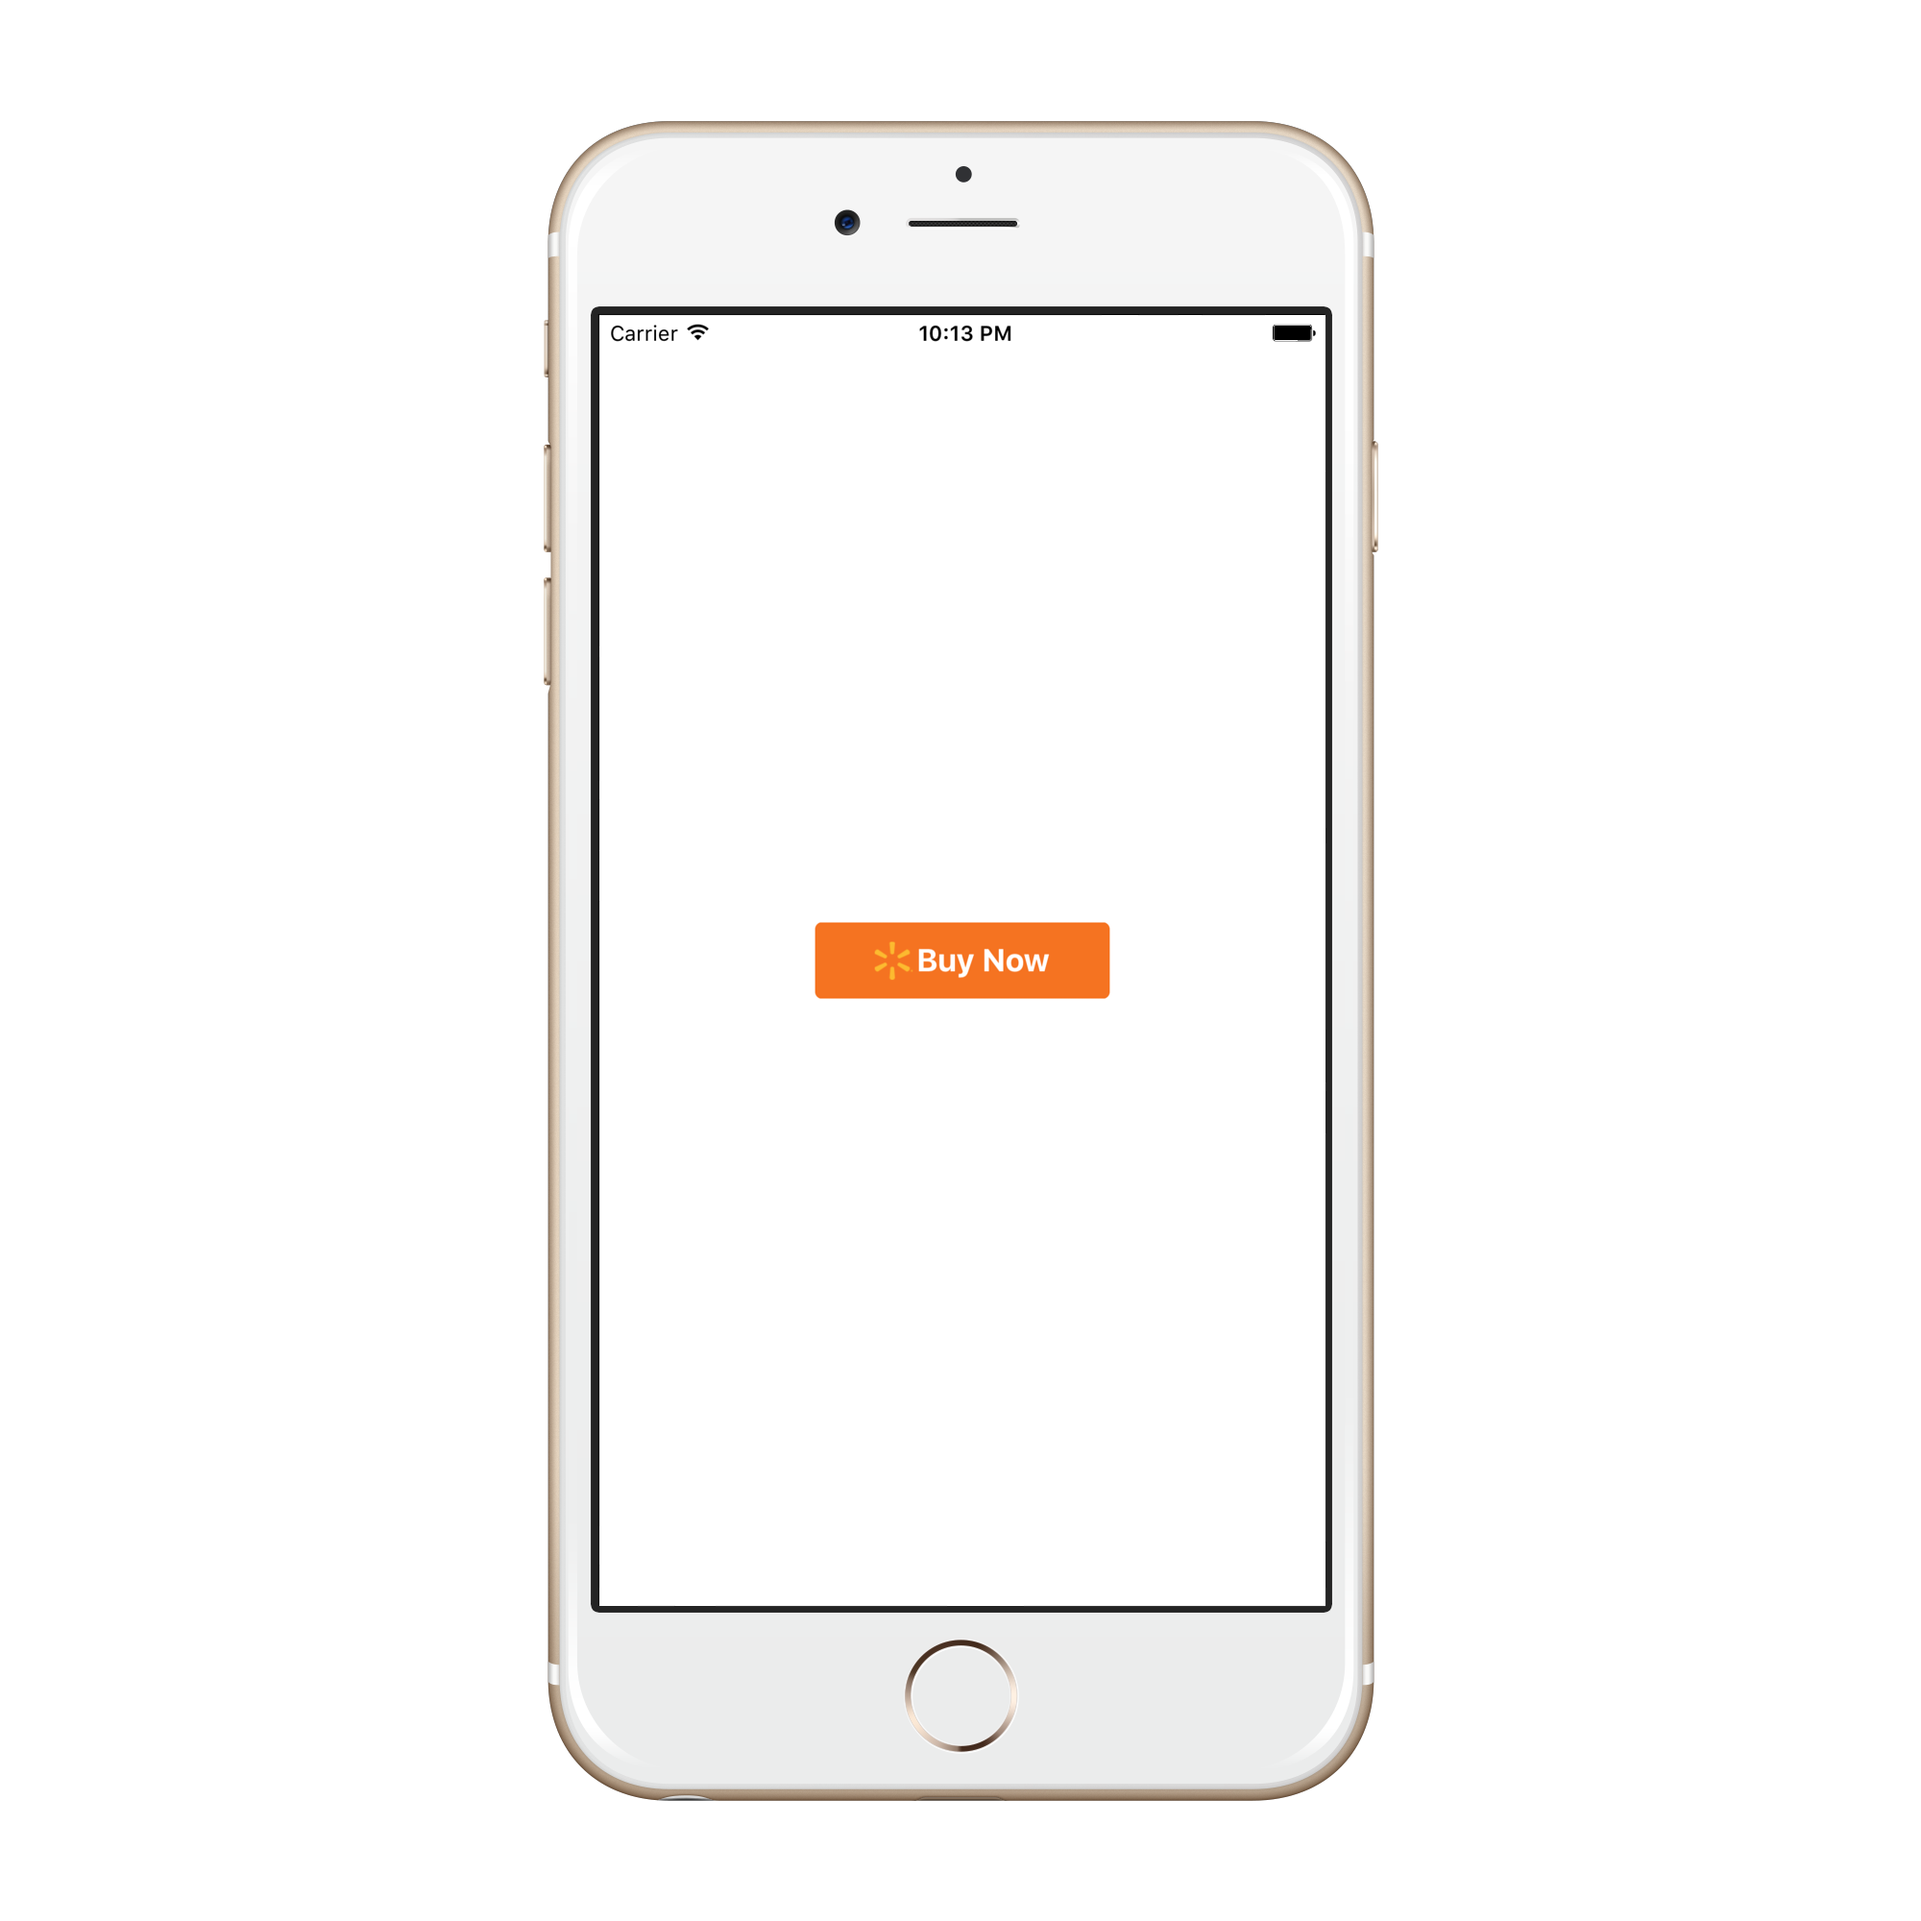
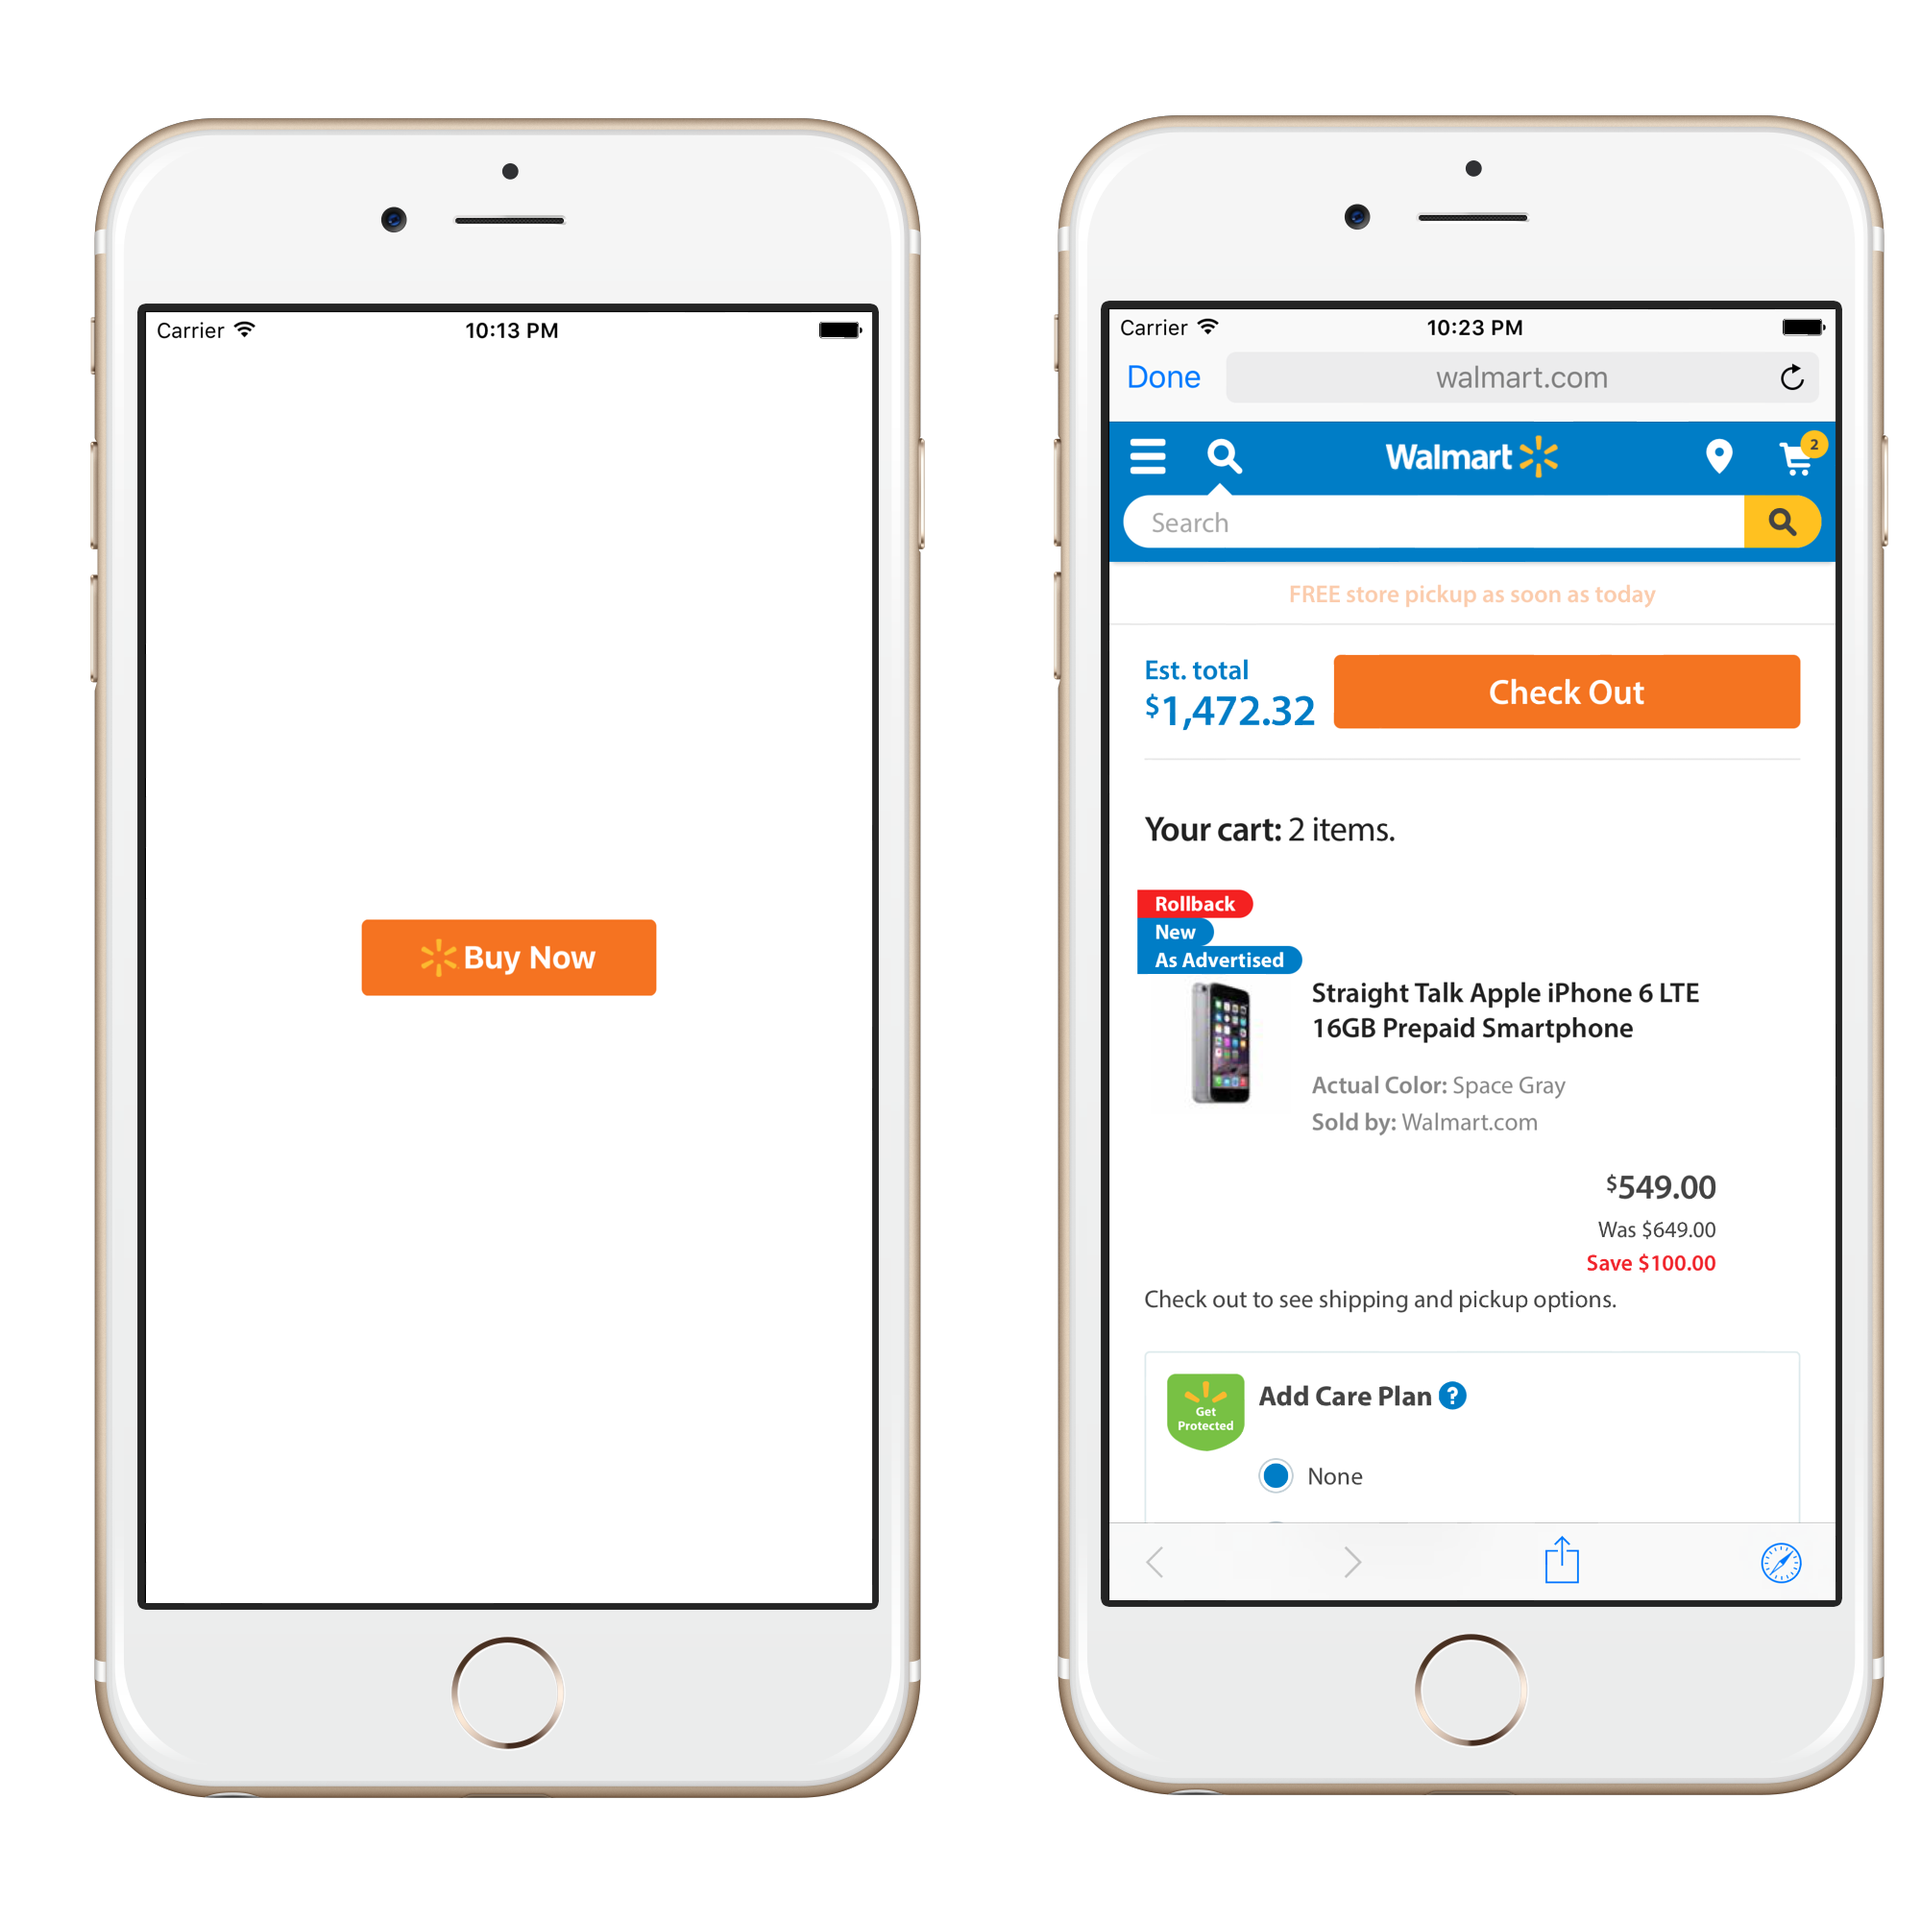
Site updated to fb062ae

Changed region(s): [[0.031, 0.062, 0.992, 0.961]]

diff --git a/ios/index.html b/ios/index.html
@@ -224,15 +224,7 @@ the cart on <a href="http://www.walmart.com">Walmart</a> opened in-app.</p>
 
           <h2 id="add-buynow-button-to-your-application">Add BuyNow button to your application</h2>
 
-<div class="clear">
-    <div style="float:left;width:50%">
-    <img alt="BuyNow Button" src="../images/buynow_button.png"/>
-    </div>
-
-    <div style="float:left;width:50%">
-    <img alt="BuyNow Button WebView" src="../images/buynow_button_webview.png"/>
-    </div>
-</div>
+<p><img alt="Buy Now Flow" src="../images/buynow_button.png" /></p>
 
 <h3 id="general-ios-setup">General iOS Setup</h3>
 

diff --git a/includes/buynow_button_for_ios/add_button.html b/includes/buynow_button_for_ios/add_button.html
@@ -41,15 +41,7 @@
       <div class="content">
         <h2 id="add-buynow-button-to-your-application">Add BuyNow button to your application</h2>
 
-<div class="clear">
-    <div style="float:left;width:50%">
-    <img alt="BuyNow Button" src="../images/buynow_button.png"/>
-    </div>
-
-    <div style="float:left;width:50%">
-    <img alt="BuyNow Button WebView" src="../images/buynow_button_webview.png"/>
-    </div>
-</div>
+<p><img alt="Buy Now Flow" src="../../images/buynow_button.png" /></p>
 
 <h3 id="general-ios-setup">General iOS Setup</h3>
 
